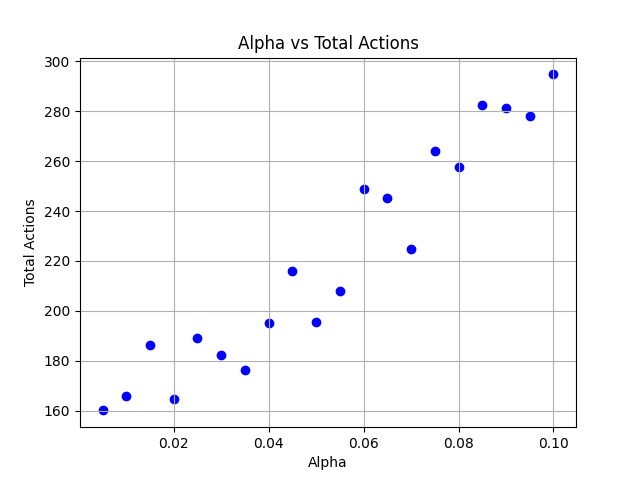
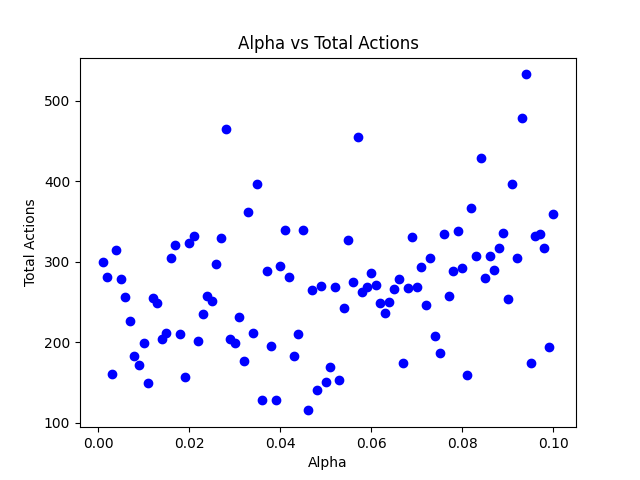
took out pygame bot4

diff --git a/LeakBot4.py b/LeakBot4.py
@@ -3,7 +3,7 @@ from concurrent.futures import ProcessPoolExecutor, as_completed
 import concurrent.futures
 from collections import defaultdict, deque
 import math
-import pygame
+# import pygame
 import random
 from queue import PriorityQueue
 import concurrent.futures
@@ -12,12 +12,12 @@ import numpy as np
 import matplotlib.pyplot as plt
 
 WIDTH = 800
-WIN = pygame.display.set_mode((WIDTH, WIDTH))
-pygame.display.set_caption("Leak Finding Algorithm")
+# WIN = pygame.display.set_mode((WIDTH, WIDTH))
+# pygame.display.set_caption("Leak Finding Algorithm")
 
 E = 2.718281828459045
 FPS = 60
-clock = pygame.time.Clock()
+# clock = pygame.time.Clock()
 
 RED = (255, 0, 0)
 GREEN = (0, 255, 0)
@@ -213,9 +213,9 @@ def algorithm(draw, grid, start, end):
     open_set_hash = {start}
 
     while not open_set.empty():
-        for event in pygame.event.get():
-            if event.type == pygame.QUIT:
-                pygame.quit()
+        # for event in pygame.event.get():
+        #     if event.type == pygame.QUIT:
+        #         pygame.quit()
 
         current = open_set.get()[2]
         open_set_hash.remove(current)
@@ -377,7 +377,7 @@ def infinity():
     return float('inf')
 
 
-def Bot3(win, width, ROWS, square, ALPHA):
+def Bot3( width, ROWS, square, ALPHA):
     # def check_square(spot, leak):
     #     x, y = spot.get_pos()
     #     det_square = set()
@@ -450,11 +450,11 @@ def Bot3(win, width, ROWS, square, ALPHA):
     def beep_probability_update(probability_matrix, bot_location):
         probability_matrix[bot_location] = 0
         denom = sum(
-                probability_matrix[key2] *
-                E**((-1 * ALPHA) * (dists[(bot_location, key2)] - 1))
-                for key2 in probability_matrix
-                if key2 != bot_location
-            )
+            probability_matrix[key2] *
+            E**((-1 * ALPHA) * (dists[(bot_location, key2)] - 1))
+            for key2 in probability_matrix
+            if key2 != bot_location
+        )
         for key in probability_matrix:
             if denom != 0 and not math.isinf(denom):
                 probability_matrix[key] = (
@@ -467,12 +467,12 @@ def Bot3(win, width, ROWS, square, ALPHA):
     def no_beep_probability_update(probability_matrix, bot_location):
         probability_matrix[bot_location] = 0
         denom = sum(
-                probability_matrix[key2] *
-                (1 - E**((-1 * ALPHA) *
-                 (dists[(bot_location, key2)] - 1)))
-                for key2 in probability_matrix
-                if key2 != bot_location
-            )
+            probability_matrix[key2] *
+            (1 - E**((-1 * ALPHA) *
+                     (dists[(bot_location, key2)] - 1)))
+            for key2 in probability_matrix
+            if key2 != bot_location
+        )
         for key in probability_matrix:
             if denom != 0 and not math.isinf(denom):
 
@@ -496,47 +496,47 @@ def Bot3(win, width, ROWS, square, ALPHA):
     total_actions = 0
 
     while run:
-        clock.tick(FPS)
+        # clock.tick(FPS)
         for row in grid:
             for spot in row:
                 spot.update_neighbors(grid)
                 spot.update_unres_neighbors(grid)
         # draw(win, grid, ROWS, width)#Here
-        for event in pygame.event.get():
-            if event.type == pygame.QUIT:
-                run = False
+        # for event in pygame.event.get():
+        #     if event.type == pygame.QUIT:
+        #         run = False
 
         if time:
             next_location = None
-            #print(start.get_pos())
+            # print(start.get_pos())
             # pseudocode: while bot_location != leak_location:
             queue = deque()
             dists = defaultdict(infinity)
             for og_nei in may_contain_leak:
-                    queue.append(og_nei)
-                    dists[(og_nei.get_pos(), og_nei.get_pos())] = 0
-                    while queue:
+                queue.append(og_nei)
+                dists[(og_nei.get_pos(), og_nei.get_pos())] = 0
+                while queue:
 
-                        curr = queue.popleft()
+                    curr = queue.popleft()
 
-                        for nei in curr.neighbors:
-                            if dists[(og_nei.get_pos(), nei.get_pos())] != float('inf'):
-                                continue
-                            else:
-                                dists[(og_nei.get_pos(), nei.get_pos())] = dists[(
-                                    og_nei.get_pos(), curr.get_pos())]+1
-                                dists[(nei.get_pos(), og_nei.get_pos())] = dists[(
-                                    og_nei.get_pos(), nei.get_pos())]
+                    for nei in curr.neighbors:
+                        if dists[(og_nei.get_pos(), nei.get_pos())] != float('inf'):
+                            continue
+                        else:
+                            dists[(og_nei.get_pos(), nei.get_pos())] = dists[(
+                                og_nei.get_pos(), curr.get_pos())]+1
+                            dists[(nei.get_pos(), og_nei.get_pos())] = dists[(
+                                og_nei.get_pos(), nei.get_pos())]
 
-                                queue.append(nei)
+                            queue.append(nei)
 
             while (start.get_pos() != random_leak.get_pos()):
                 # for _ in range(100):
                 # print(sum(probabilities.values()))
-                
+
                 probabilities = bot_enters_cell_probability_update(
-                                probabilities, start.get_pos())
-                
+                    probabilities, start.get_pos())
+
                 # probability of hearing beep in cell bot_location due to leak in leak_location
                 # print(dists)
 
@@ -582,7 +582,7 @@ def Bot3(win, width, ROWS, square, ALPHA):
                     if i.get_pos() == random_leak.get_pos():
                         browncount = 0
                         for j in i.neighbors:
-                            if j.is_path() or j.get_pos()==start.get_pos() or j.get_pos() == next_location.get_pos():
+                            if j.is_path() or j.get_pos() == start.get_pos() or j.get_pos() == next_location.get_pos():
                                 browncount += 1
                         if browncount == 2:
                             return total_actions
@@ -606,10 +606,10 @@ def Bot3(win, width, ROWS, square, ALPHA):
                             probabilities[start.get_pos()] = 0
                             total_actions += 1
                 # pygame.time.delay(1000)
-                draw(win, grid, ROWS, width)
+                # draw(win, grid, ROWS, width)
             time = False
 
-    pygame.quit()
+    # pygame.quit()
     return total_actions
 
 
@@ -636,46 +636,56 @@ def main(win, width):
 # Your existing main method
 
 
-# def run_bot3(alpha):
-#     ROWS = 30
-#     total_actions = 0
-#     for _ in range(20):
-#         total_actions += Bot3(WIN, WIDTH, ROWS, 3, alpha)
-#     return total_actions/20
+def run_bot3(alpha):
+    WIDTH = 800
+    # WIN = pygame.display.set_mode((WIDTH, WIDTH))
+    # pygame.display.set_caption("Leak Finding Algorithm")
+    ROWS = 30
+    total_actions = 0
+    count = 0
+    for _ in range(10):
+        try:
+            total_actions += Bot3(WIDTH, ROWS, 3, alpha)
+        except Exception as e:
+            print(f"Error in execution for alpha={alpha}: {e}")
+            count -= 1
+        count += 1
+        print(count, flush=True)
+    # pygame.quit()
+    return total_actions/(count)
 
 
-# def main(WIN, WIDTH):
-#     success = defaultdict(int)
+def main():
+    success = defaultdict(int)
 
-#     with ProcessPoolExecutor(max_workers=7) as executor:
-#         alphas = [i / 10 for i in range(1, 11)]
+    with ProcessPoolExecutor(max_workers=5) as executor:
+        alphas = [i / 1000 for i in range(1, 101)]
 
-#         futures = {executor.submit(run_bot3, alpha): alpha for alpha in alphas}
+        futures = {executor.submit(run_bot3, alpha): alpha for alpha in alphas}
+        count = 0
+        for future in as_completed(futures):
+            alpha = futures[future]
+            result = future.result()
+            success[alpha] += result
+            count += 1
+            print(count, alpha)
 
-#         for future in as_completed(futures):
-#             alpha = futures[future]
-#             try:
-#                 result = future.result()
-#                 success[alpha] += result
-#             except Exception as e:
-#                 print(f"Error in execution for alpha={alpha}: {e}")
+    print(success)
+    alphas, total_actions = zip(*sorted(success.items()))
 
-#     print(success)
-#     alphas, total_actions = zip(*sorted(success.items()))
+    # Convert to NumPy arrays
+    alphas = np.array(alphas)
+    total_actions = np.array(total_actions)
 
-#     # Convert to NumPy arrays
-#     alphas = np.array(alphas)
-#     total_actions = np.array(total_actions)
-
-#     # Create the plot
-#     plt.scatter(alphas, total_actions, marker='o', linestyle='-', color='b')
-#     plt.title('Alpha vs Total Actions')
-#     plt.xlabel('Alpha')
-#     plt.ylabel('Total Actions')
-#     plt.grid(True)
-#     plt.savefig('scatter_plot.png')
+    # Create the plot
+    plt.scatter(alphas, total_actions, marker='o', linestyle='-', color='b')
+    plt.title('Alpha vs Total Actions')
+    plt.xlabel('Alpha')
+    plt.ylabel('Total Actions')
+    plt.grid(False)
+    plt.savefig('bot_4.png')
 
 
 if __name__ == "__main__":
-    main(WIN, WIDTH)
+    main()
 # main(WIN, WIDTH)

diff --git a/LeakBot3.py b/LeakBot3.py
@@ -608,7 +608,7 @@ def run_bot3(alpha):
     ROWS = 30
     total_actions = 0
     count = 0
-    for _ in range(150):
+    for _ in range(10):
         try:
             total_actions += Bot3(WIDTH, ROWS, 3, alpha)
         except Exception as e:
